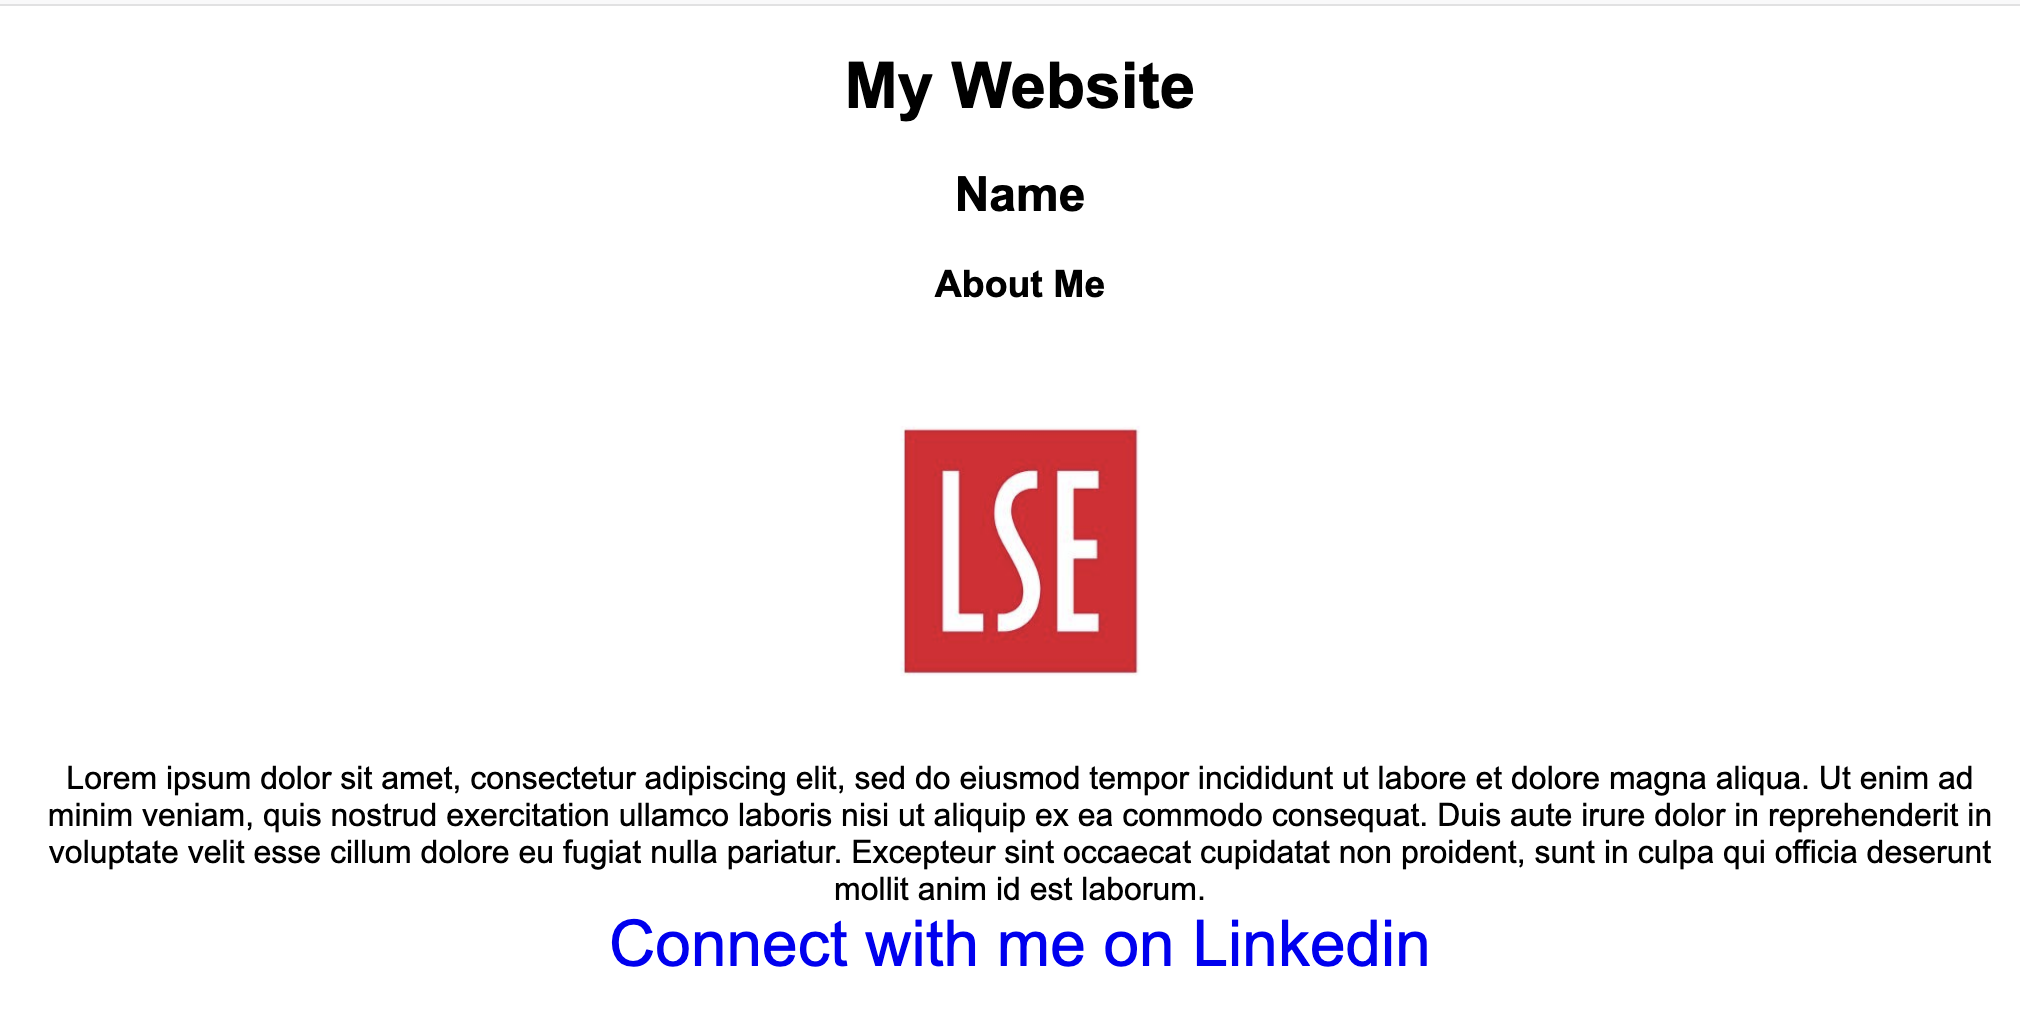
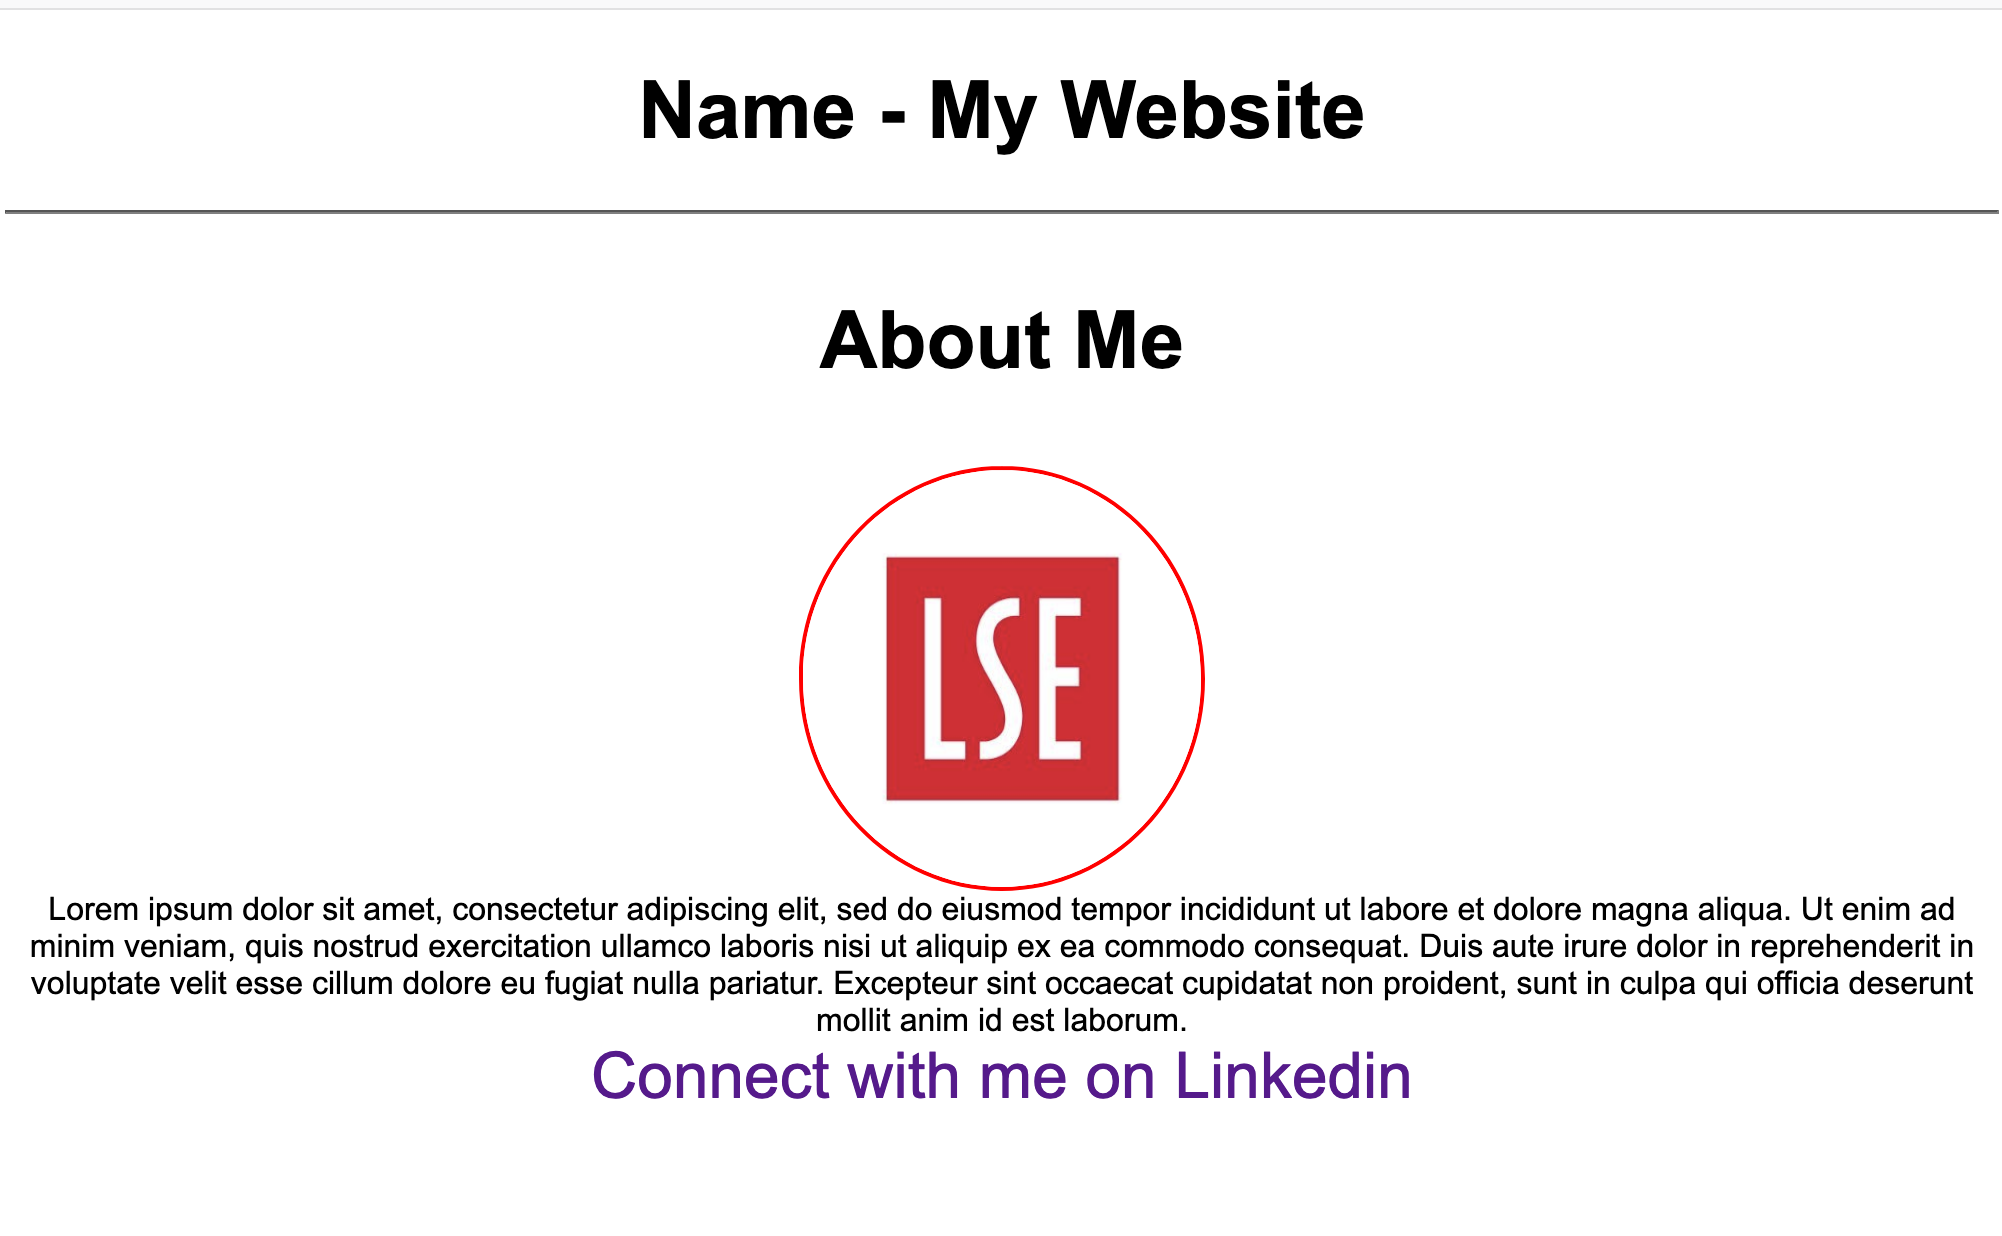
updating content

diff --git a/img/index.html b/img/index.html
@@ -5,9 +5,9 @@
 <body>
 
 	<div id = 'container'>
-		<h1> My Website </h1>
-		<h2> Name </h2>
-		<h3> About Me</h3>
+		<h1 class='heading'> Name - My Website</h1>
+		<hr>
+		<h3 class='heading'> About Me</h3>
 		<img src = 'image.jpg' width='20%' height='30%' />
 		<div id = 'description'>
 			Lorem ipsum dolor sit amet, consectetur adipiscing elit, sed do eiusmod tempor incididunt ut labore et dolore magna aliqua. Ut enim ad minim veniam, quis nostrud exercitation ullamco laboris nisi ut aliquip ex ea commodo consequat. Duis aute irure dolor in reprehenderit in voluptate velit esse cillum dolore eu fugiat nulla pariatur. Excepteur sint occaecat cupidatat non proident, sunt in culpa qui officia deserunt mollit anim id est laborum.

diff --git a/img/style.css b/img/style.css
@@ -8,3 +8,14 @@ a {
 	text-decoration:none;	
 	font-size:200%;
 }
+
+
+.heading {
+	font-family:Arial;
+	font-size:250%;
+}
+
+img {
+	border: 2px solid red;
+	border-radius:100%;
+}

diff --git a/_posts/2019-11-08-IntroductionToGitAndWebPages.md b/_posts/2019-11-08-IntroductionToGitAndWebPages.md
@@ -3,15 +3,22 @@ layout: post
 title: Introduction to Git, Github and Webpages
 ---
 
-This tutorial will introduce the basics of how to use Git/Github. At the end of this tutorial, you will have created your own webpage which will be hosted on github pages.
+This tutorial assumes no knowledge of coding whatsoever. It is  split into 3 sections:
+1. basics of how to use Git/Github. 
+2. Basics of Webpages
+3. Basic of Static Pages
+
+At the end of this tutorial, you will have created your own webpage which will be hosted on github pages, which will look something like this:
+
+![staticpage]("/staticpage.png")
 
 # What is Git? Why Git? What is Github?
 
-Git is a distributed version control system made by Linus Torvalds, the creator of Linux. What "distributed version control system", means that a group of coders can collaborate together in real-time on the same project in a scalable, robust way, keeping track of all changes made, and developing projects in a efficient manner.
+Git is a distributed version control system made by Linus Torvalds, the creator of Linux. What "distributed version control system" means, is that a group of coders can collaborate together in real-time on the same project in a scalable, robust way, keeping track of all changes made, and developing projects ("repos") in a efficient manner.
 
 Github is a platform that support Git. There are alternatives such as Gitlab and Atlassian, but for now we will stick Github as it allows free hosting for your webpage.
 
-You should learn at learn Git and Github are used widely among industry, academia, and hobbyists, and moreover Git it is a crucial tool in any aspiring programmer's toolkit that you will definitely run into should you pursue coding in the future
+You should learn at learn Git and Github are used widely among industry, academia, and hobbyists; moreover Git it is a crucial tool in any aspiring programmer's toolkit that you will definitely run into should you pursue coding in the future
 
 # Intro to Git/ Github
 To begin with, sign up for a github account at [https://github.com/](https://github.com/)
@@ -61,21 +68,22 @@ You can now view your website at ```http://$USERNAME.github.io```	, which should
 
 ![htmlsite](/img/htmlsite1.png)
 
-If you want to learn more about git commands you can go to [guides.github.com/introduction/git-handbook/](https://guides.github.com/introduction/git-handbook/)
+This concludes the first section. If you want to learn more about git commands you can go to [guides.github.com/introduction/git-handbook/](https://guides.github.com/introduction/git-handbook/)
 
 # Intro to Webpages
 
-If you're familiar with the basis of HTML and CSS you can skip this part. Otherwise, open up ```"index.html"``` in notepad or your favourite code editor software. I use [Sublime Text](https://www.sublimetext.com/). Then you'll see this:
+If you're familiar with the basis of HTML and CSS you can gloss over this part. Otherwise, open up ```"index.html"``` in notepad or your favourite code editor. I personally use [Sublime Text](https://www.sublimetext.com/). Then you'll see this:
 
 ## HTML
 
 ![htmlsitesyntax](/img/htmlsitesyntax.png)
 
-Let's break this down. HTML is a markup language, in which we wrap content in tags, which meta-describes and has some effect on the content. For example, the tag ```<h1>``` in ```<h1> Heading 1 </h1>``` marks the text "Heading 1" a heading. We can change the content between the tags to anything we want, and that will change accordingly the content on the webpage. Note that in most cases, each opening tag, e.g. ```<h2>``` needs to be followed by a closing tag ```<h2>``` after your content
+Broadly speaking, HTML is responsible for the content on the webpage. HTML is a markup language, in which we wrap content in tags, which meta-describes and has some effect on the content. For example, the tag ```<h1>``` in ```<h1> Heading 1 </h1>``` marks the text "Heading 1" a heading. We can change the content between the tags to anything we want, and that will change accordingly the content on the webpage. Note that in most cases, each opening tag, e.g. ```<h2>``` needs to be followed by a closing tag ```<h2>``` after your content
 
 Here are some of the key tags you need to know for now:
 
 ```
+<h1 class = 'heading'> My Heading </h1>
 <div id = 'container'> </div>
 
 <a href = 'http://mywebsite.com'> My Link Text </a>
@@ -83,7 +91,9 @@ Here are some of the key tags you need to know for now:
 <img src = 'image.jpg'>
 ```
 
-```<div id = 'container'> </div>``` - This describes the content within these tags as a division with the id "container'. Alternatively we can use the class attribute and put something like ```<div class = 'content'> </div>```, which would be a div with the class "content". We'll see why ids and classes are important later
+```<h1 class = 'heading'> My Heading </h1>``` - This marks the text "My Heading" as a heading1 ```<h1>```, with the class ```"heading"```
+
+```<div id = 'container'> </div>``` - This describes the content within these tags as a division with the id "container'.  We'll see why ids and classes are important later
 
 ```<a href = 'http://mywebsite.com'> My Link Text </a>``` - This creates a link to ``` 'http://mywebsite.com' ``` with the text "My Link Text"
 
@@ -105,14 +115,39 @@ Replacing "file that i changed 1" and so on with the files that you changed. Now
 
 ## CSS
 
-Now we can add CSS. Again in terminal/powershell, type the following (now familiar commands):
+CSS is broadly responsible for the presentation and styling of your webpage. Open up "style.css" in your code editor. Let's take a look at the syntax:
+
+![csssitesyntax](/img/csssitesyntax.png)
+
+```css
+#container {
+	text-align:center;	
+}
+a {
+	font-size:200%;
+}
+.heading {
+	backround-color:silver;
+}
+```
+
+Let's break this down:
+
+```a {font-size:200%;}``` - This targets elements of type ```<a></a>``` and applys the property of making font inside 200% of the default size. We can assign as many properties to the elements we want by adding a new line ```property:property value;```, which we must end with a semicolon. You can look up CSS properties online
+
+```#container{...}``` - This selects all elements that have the id container (the ```#``` means an id) and applies the properties we want to it. We use ids for more 'one-off' elements that we want to apply properties to
+
+```.heading {...}``` - This selects all elements that have the class heading (the ```'.'``` means class) and applies the properties we want to them. We use classes for more general group of elements, e.g. headings
+
+
+Have a tinker around in the "style.css" file, and make the changes you want. Now we're going to add the CSS to our website. Again in terminal/powershell, type the following (now hopefully familiar commands):
 ``` 
 git add style.css
 git commit -m "adding stylesheet"
 git push -u origin master
 ```
 
-And now when you refresh your webpage at ```http://$USERNAME.github.io```
+And now when you refresh your webpage at ```http://$USERNAME.github.io```, it should look something like this:
 
 ![htmlsite](/img/htmlsite2.png)
 
@@ -124,10 +159,27 @@ https://developer.mozilla.org/en-US/docs/Web/CSS
 
 # Intro to static pages
 
-Instead of creating a webpage from scratch, we can reuse the brilliant work that others have done, and build a website using a static site generator. These make use of Markdown, a markup language similar to HTML which is also used in Jupyter notebooks
+Instead of creating a webpage from scratch, we can reuse the brilliant work that others have done, and build a website using a static site generator. These use a static site generator (e.g. Ruby and Jekyll, Go and Hugo) make use of Markdown, a markup language similar to HTML which is also used in Jupyter notebooks, to allow you to purely focus on describing content.
 
+To begin with, clone the Minimal Jekyll theme by typing the following into your terminal/powershell:
 
+```git clone https://github.com/pages-themes/minimal```
 
+Backup the files you made before, "index.html", "style.css", and all the other files you previously used into a folder. Now open up the folder where you downloaded the Minimal theme
+
+![files](/img/files.png)
+
+Replace the files in your folder $USERNAME.github.io with the files in the Minimal theme folder. Then:
+
+``` 
+git add -A
+git commit -m "adding minimal theme"
+git push -u origin master
+```
+
+When you refresh http://$USERNAME.github.io you should get something like this:
+
+![staticsite1](/img/staticsite1.png)
 
 
 

diff --git a/IntroductionToGitAndWebPages.md b/IntroductionToGitAndWebPages.md
@@ -20,7 +20,7 @@ To begin with, sign up for a github account at [https://github.com/](https://git
 
 After you have logged in, create a repository at [https://github.com/new](https://github.com/new)
 
-It needs to be in the format ```$YOURUSERNAME.github.io```, e.g. ```chrischia06.github.io```
+It needs to be in the format ```$USERNAME.github.io```, e.g. ```chrischia06.github.io```
 
 ![github](/img/createrepo.png)
 
@@ -28,7 +28,7 @@ Now install git at [https://git-scm.com/downloads](https://git-scm.com/downloads
 
 ![github](/img/git.png)
 
-Create a new folder on your computer and call it ```$YOURUSERNAME.github.io```
+Create a new folder on your computer and call it ```$USERNAME.github.io```
 
 Download "website.zip" from  [here](/img/website.zip) and unzip the "index.html","style.css", "image.png" and place them in your folder
 
@@ -36,43 +36,90 @@ Open up your terminal in macOS/Linux or Powershell in Windows and type the follo
 ```
 git init
 
-git add index.html
+git add index.html image.jpg
 
 git commit -m "First Commit - adding webpage"
 
-git remote add origin https://github.com/$YOURUSERNAME/$YOURUSERNAME.github.io.git
+git remote add origin https://github.com/$USERNAME/$USERNAME.github.io.git
 
 git push -u origin master
 ```
 
-Let's break this down:
+These are basic git commands. Let's break this down:
 
 ```git init``` - This initialises a git repository on your computer
 
-```git add index.html ``` This adds the file "index.html" to the staging area, which is the list of files you have changed
+```git add index.html image.jpg ``` This adds the files "index.html" and "image.jpg" to the staging area, which is the list of files you have changed
 
 ```git commit -m "First Commit - adding webpage"``` - This commits your file changes, with a meaningful commit message after the "-m" flag
 
-```git remote add origin https://github.com/$YOURUSERNAME/$YOURUSERNAME.github.io.git ``` - This adds the domain where changes will be deploying changes to, in this case  https://github.com/$YOURUSERNAME/$YOURUSERNAME.github.io.git 
+```git remote add origin https://github.com/$USERNAME/$USERNAME.github.io.git ``` - This adds the domain to which you will be deploying the changes you make to
 
 ```git push -u origin master``` This commits your changes to the server
 
-You can now view your website at ```http://$YOURUSERNAME.github.io```	, which should look something like this
+You can now view your website at ```http://$USERNAME.github.io```	, which should look something like this
 
-![htmlsite](/img/htmlsite.png)
+![htmlsite](/img/htmlsite1.png)
 
+If you want to learn more about git commands you can go to [guides.github.com/introduction/git-handbook/](https://guides.github.com/introduction/git-handbook/)
 
 # Intro to Webpages
 
-If you're familiar with the basis of HTML and CSS you can skip this part
+If you're familiar with the basis of HTML and CSS you can skip this part. Otherwise, open up ```"index.html"``` in notepad or your favourite code editor software. I use [Sublime Text](https://www.sublimetext.com/). Then you'll see this:
+
+## HTML
 
 ![htmlsitesyntax](/img/htmlsitesyntax.png)
 
-Let's break this down. HTML is a markup language, in which we wrap content in tags, such as ```<h1> Heading 1 </h1>```
+Let's break this down. HTML is a markup language, in which we wrap content in tags, which meta-describes and has some effect on the content. For example, the tag ```<h1>``` in ```<h1> Heading 1 </h1>``` marks the text "Heading 1" a heading. We can change the content between the tags to anything we want, and that will change accordingly the content on the webpage. Note that in most cases, each opening tag, e.g. ```<h2>``` needs to be followed by a closing tag ```<h2>``` after your content
+
+Here are some of the key tags you need to know for now:
+
+```
+<div id = 'container'> </div>
+
+<a href = 'http://mywebsite.com'> My Link Text </a>
+
+<img src = 'image.jpg'>
+```
+
+```<div id = 'container'> </div>``` - This describes the content within these tags as a division with the id "container'. Alternatively we can use the class attribute and put something like ```<div class = 'content'> </div>```, which would be a div with the class "content". We'll see why ids and classes are important later
+
+```<a href = 'http://mywebsite.com'> My Link Text </a>``` - This creates a link to ``` 'http://mywebsite.com' ``` with the text "My Link Text"
+
+``` <img src = 'image.jpg'> ``` - This places the image with the name ```image.jpg``` in the webpage. ```image.jpg``` needs to be in the same folder as the file "index.html"
+
+Alternatively we can specify the folder with something like ``` <img src = 'images/image.jpg'> ``` which would mean that the image is in the folder ```"images"``` 
+
+We can also link to an image online with something like ``` <img src = 'http://www.lse.ac.uk/site-elements/img/lseFull.svg'> ``` which links to [http://www.lse.ac.uk/site-elements/img/lseFull.svg](http://www.lse.ac.uk/site-elements/img/lseFull.svg).
+
+Now that we've introduced these tags, feel free to edit the "index.html" and add any content or extra files you want to make it more personalised.  And then when you're done, type the following in your terminal (macOS) or powershell (Windows):
+
+```
+git add "file that i changed 1" "file that i changed 2" "file that i changed 3"
+git commit -m "modifying webpage"
+git push -u origin master
+```
+
+Replacing "file that i changed 1" and so on with the files that you changed. Now refresh your webpage at ```http://$USERNAME.github.io``` to see the changes
+
+## CSS
+
+Now we can add CSS. Again in terminal/powershell, type the following (now familiar commands):
+``` 
+git add style.css
+git commit -m "adding stylesheet"
+git push -u origin master
+```
+
+And now when you refresh your webpage at ```http://$USERNAME.github.io```
+
+![htmlsite](/img/htmlsite2.png)
 
 If you want to learn more about HTML and CSS you can visit Mozilla Developer Network's excellent resources here:
 https://developer.mozilla.org/en-US/docs/Web/HTML
 https://developer.mozilla.org/en-US/docs/Web/CSS
+
 
 
 # Intro to static pages
